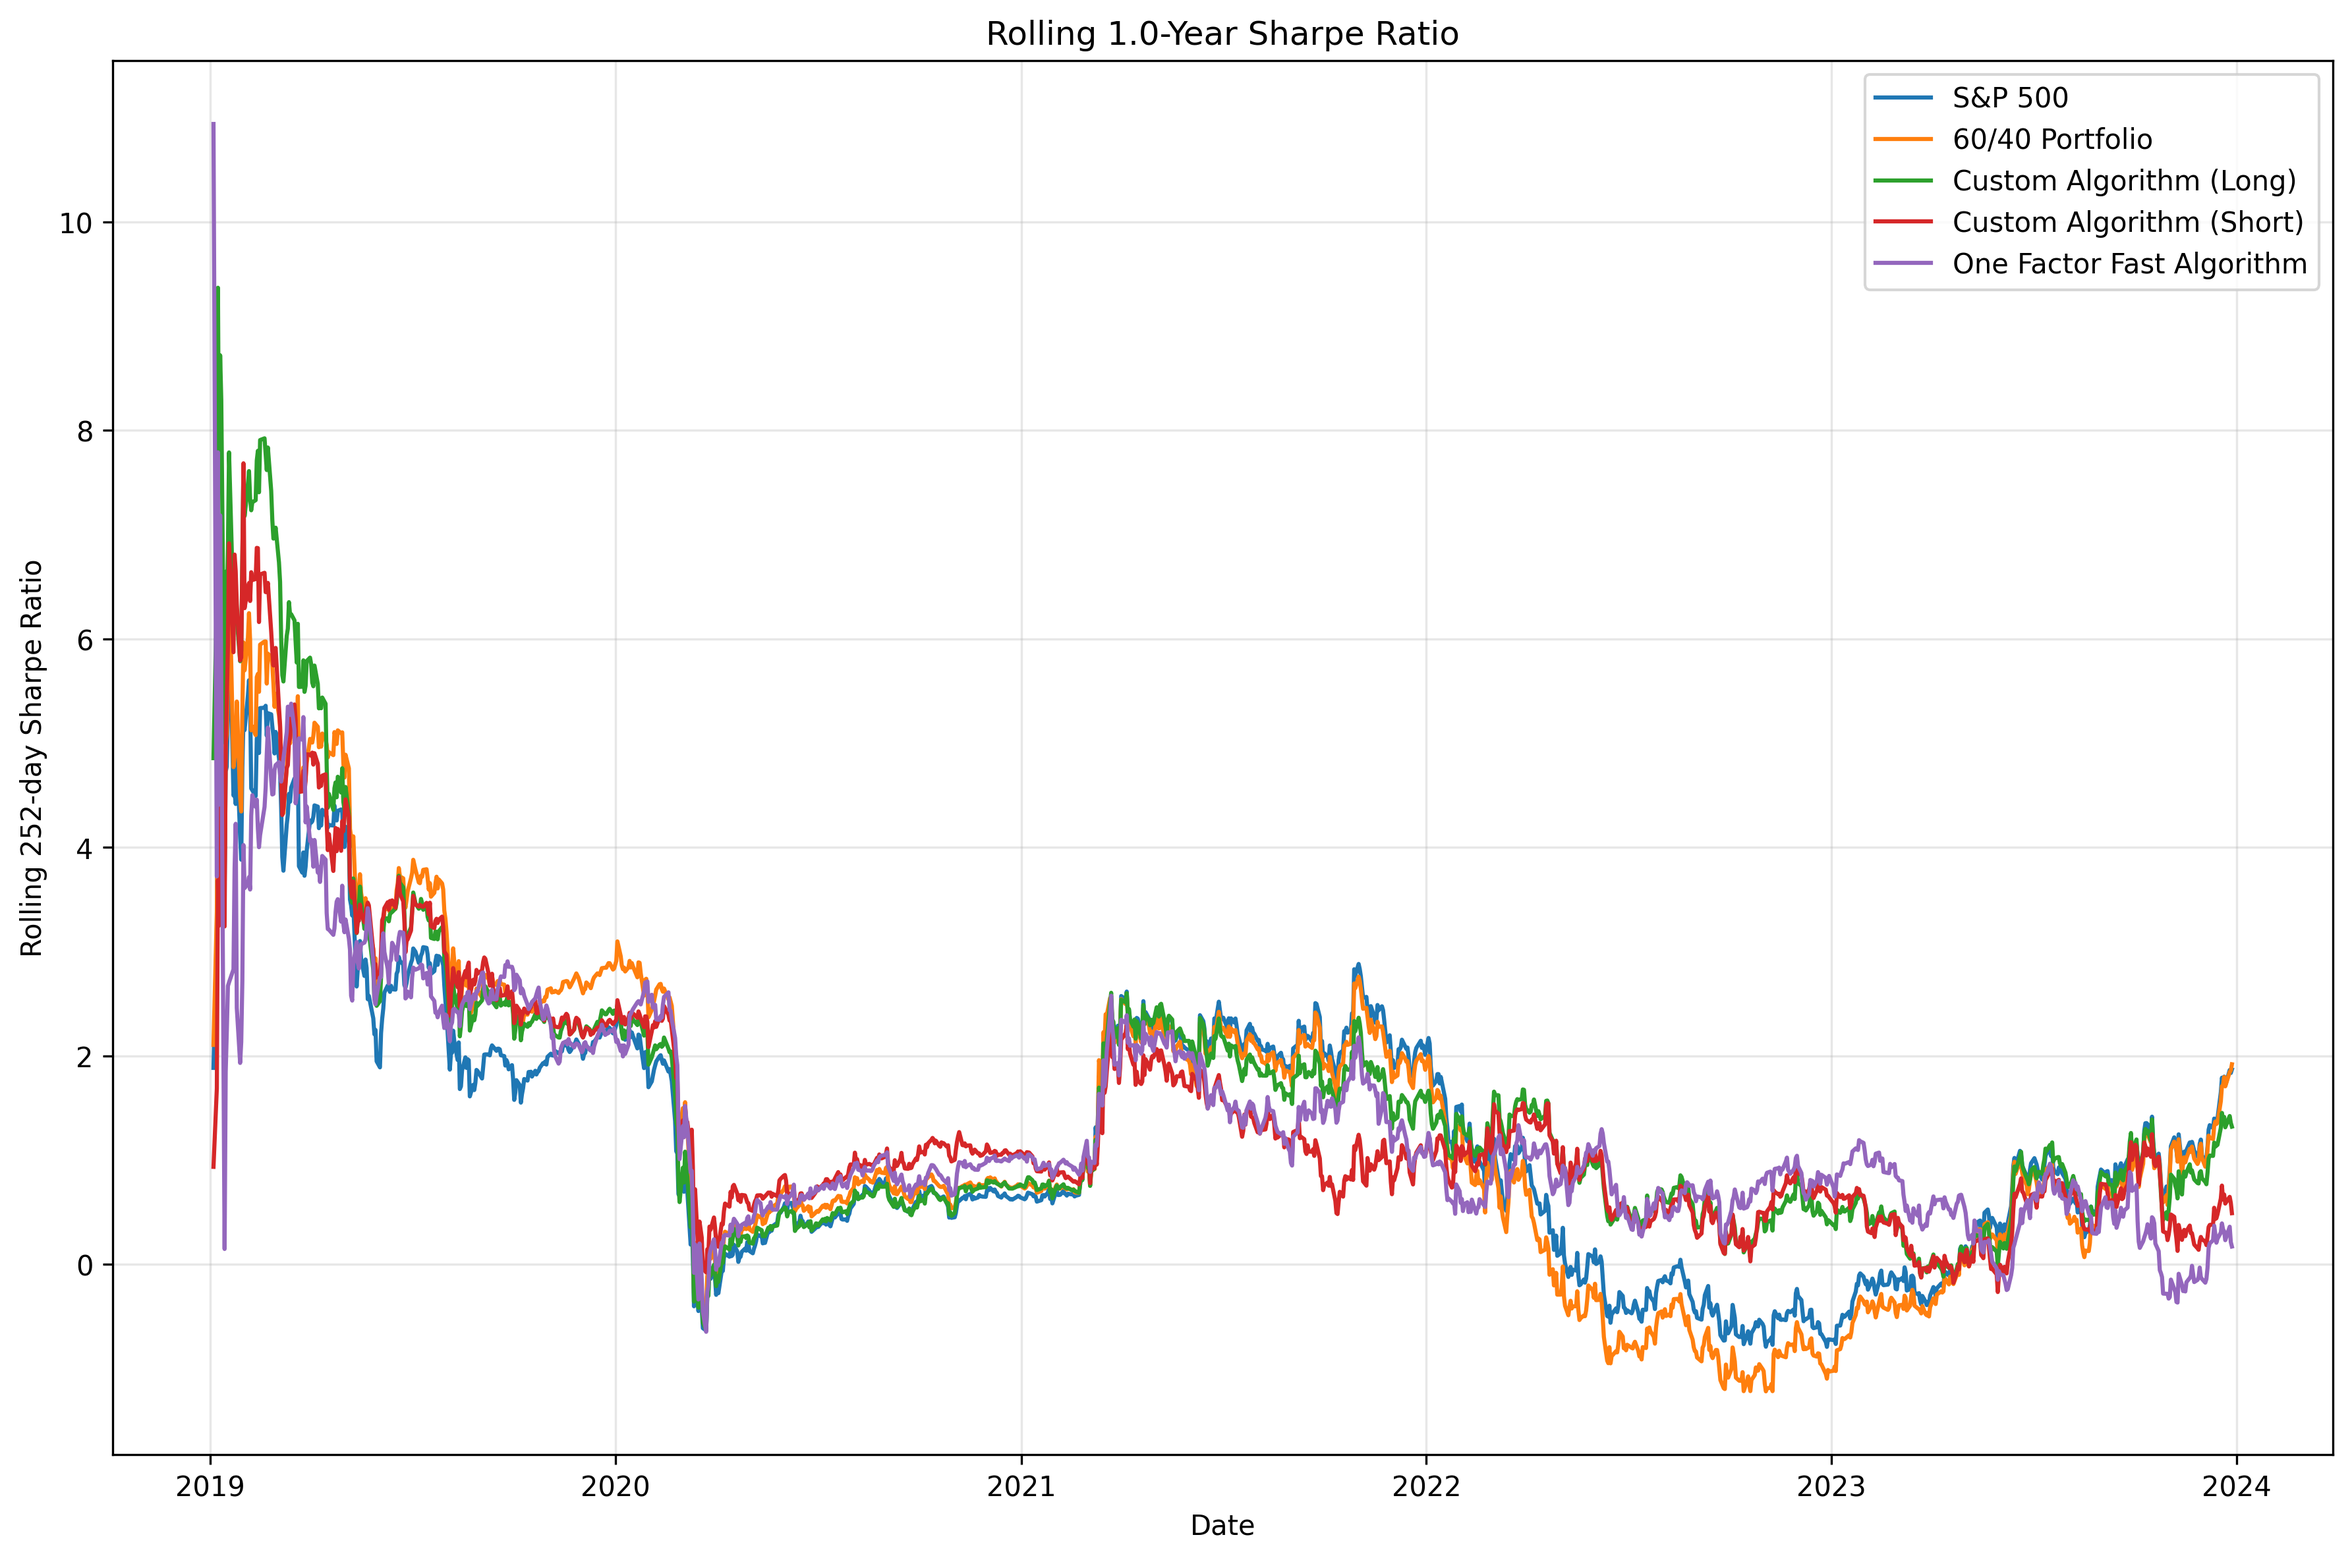
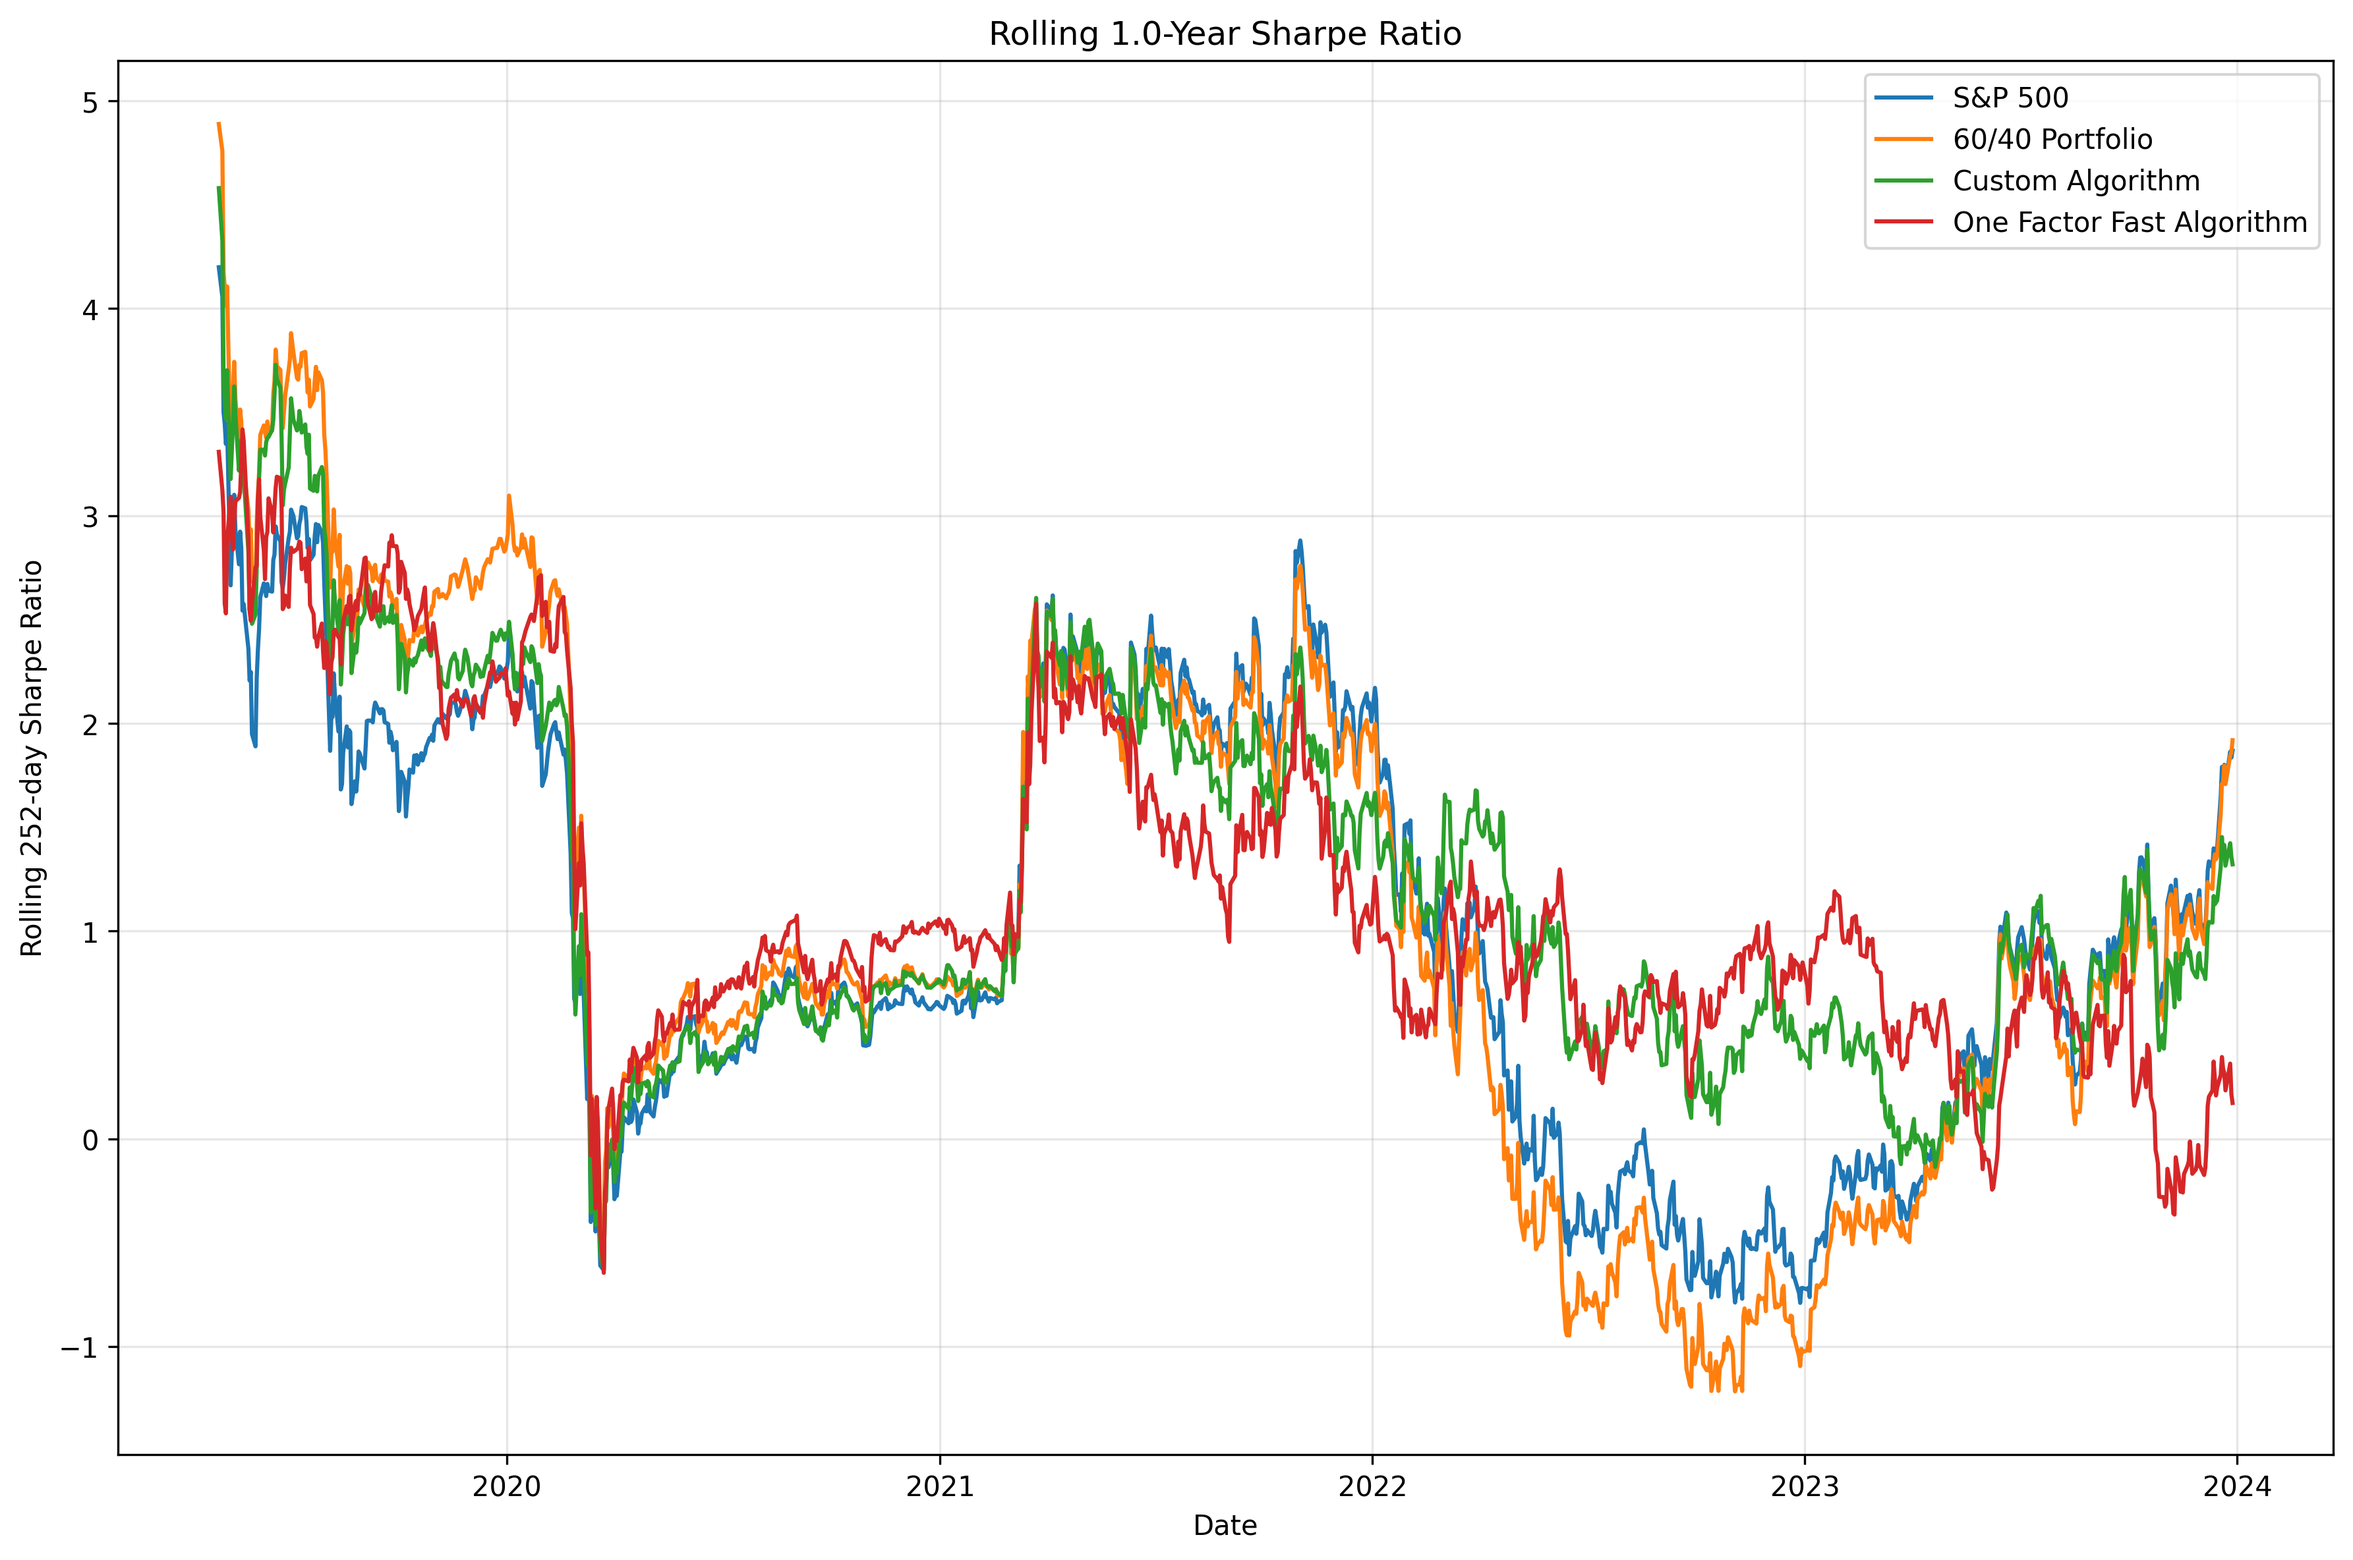
updating to use better metrics and graphs

diff --git a/src/analysis/benchmark_analysis.py b/src/analysis/benchmark_analysis.py
@@ -502,6 +502,8 @@ def plot_rolling_metrics(
 ) -> List[plt.Figure]:
     """
     Plot rolling performance metrics (returns, volatility, Sharpe ratio).
+    Omits the first month (21 trading days) of rolling data to avoid initialization
+    artifacts that can create spikes and make the plots less readable.
 
     Parameters:
     -----------
@@ -519,15 +521,47 @@ def plot_rolling_metrics(
     """
     figures = []
 
-    # Calculate rolling metrics
-    rolling_returns = returns.rolling(window=window, min_periods=1).mean() * window
-    rolling_vol = returns.rolling(window=window, min_periods=1).std() * np.sqrt(window)
-    rolling_sharpe = rolling_returns / rolling_vol
+    # Calculate rolling metrics, requiring more data for initial values
+    # Minimum period of about a month (21 trading days) or 25% of the window, whichever is larger
+    min_periods = max(21, window // 4)
+    rolling_returns = (
+        returns.rolling(window=window, min_periods=min_periods).mean() * window
+    )
+    rolling_vol = returns.rolling(
+        window=window, min_periods=min_periods
+    ).std() * np.sqrt(window)
+
+    # Calculate Sharpe ratio, avoiding division by zero
+    rolling_sharpe = pd.DataFrame(
+        index=rolling_returns.index, columns=rolling_returns.columns
+    )
+    for col in rolling_returns.columns:
+        # Only calculate Sharpe where volatility is meaningful
+        mask = rolling_vol[col] > 0.001
+        rolling_sharpe.loc[mask, col] = (
+            rolling_returns.loc[mask, col] / rolling_vol.loc[mask, col]
+        )
 
     # Plot rolling annualized returns
     fig1 = plt.figure(figsize=(12, 8))
     for column in rolling_returns.columns:
-        plt.plot(rolling_returns.index, rolling_returns[column], label=column)
+        # Skip the first month (approx 21 trading days) of data to avoid initial spikes
+        if not rolling_returns[column].isna().all():  # Skip if all values are NaN
+            # Find first non-NaN value
+            first_valid_idx = rolling_returns[column].first_valid_index()
+            if first_valid_idx is not None:
+                # Find all dates after first_valid_idx
+                valid_dates = rolling_returns.index[
+                    rolling_returns.index >= first_valid_idx
+                ]
+                # Skip the first 21 days (approx. 1 month) of valid data
+                if len(valid_dates) > 21:
+                    skip_date = valid_dates[21]
+                    plt.plot(
+                        rolling_returns.loc[skip_date:, column].index,
+                        rolling_returns.loc[skip_date:, column],
+                        label=column,
+                    )
 
     plt.xlabel("Date")
     plt.ylabel(f"Rolling {window}-day Annualized Return")
@@ -545,7 +579,21 @@ def plot_rolling_metrics(
     # Plot rolling volatility
     fig2 = plt.figure(figsize=(12, 8))
     for column in rolling_vol.columns:
-        plt.plot(rolling_vol.index, rolling_vol[column], label=column)
+        # Skip the first month (approx 21 trading days) of data to avoid initial spikes
+        if not rolling_vol[column].isna().all():  # Skip if all values are NaN
+            # Find first non-NaN value
+            first_valid_idx = rolling_vol[column].first_valid_index()
+            if first_valid_idx is not None:
+                # Find all dates after first_valid_idx
+                valid_dates = rolling_vol.index[rolling_vol.index >= first_valid_idx]
+                # Skip the first 21 days (approx. 1 month) of valid data
+                if len(valid_dates) > 21:
+                    skip_date = valid_dates[21]
+                    plt.plot(
+                        rolling_vol.loc[skip_date:, column].index,
+                        rolling_vol.loc[skip_date:, column],
+                        label=column,
+                    )
 
     plt.xlabel("Date")
     plt.ylabel(f"Rolling {window}-day Annualized Volatility")
@@ -563,7 +611,23 @@ def plot_rolling_metrics(
     # Plot rolling Sharpe ratio
     fig3 = plt.figure(figsize=(12, 8))
     for column in rolling_sharpe.columns:
-        plt.plot(rolling_sharpe.index, rolling_sharpe[column], label=column)
+        # Skip the first month (approx 21 trading days) of data to avoid initial spikes
+        if not rolling_sharpe[column].isna().all():  # Skip if all values are NaN
+            # Find first non-NaN value
+            first_valid_idx = rolling_sharpe[column].first_valid_index()
+            if first_valid_idx is not None:
+                # Find all dates after first_valid_idx
+                valid_dates = rolling_sharpe.index[
+                    rolling_sharpe.index >= first_valid_idx
+                ]
+                # Skip the first 21 days (approx. 1 month) of valid data
+                if len(valid_dates) > 21:
+                    skip_date = valid_dates[21]
+                    plt.plot(
+                        rolling_sharpe.loc[skip_date:, column].index,
+                        rolling_sharpe.loc[skip_date:, column],
+                        label=column,
+                    )
 
     plt.xlabel("Date")
     plt.ylabel(f"Rolling {window}-day Sharpe Ratio")

diff --git a/README.md b/README.md
@@ -44,7 +44,7 @@ portfolio-optimization/
 
 ```bash
 # Clone the repository
-git clone https://github.com/yourusername/portfolio-optimization.git
+git clone https://github.com/mrmcduff/portfolio-optimization.git
 cd portfolio-optimization
 
 # Create a virtual environment
